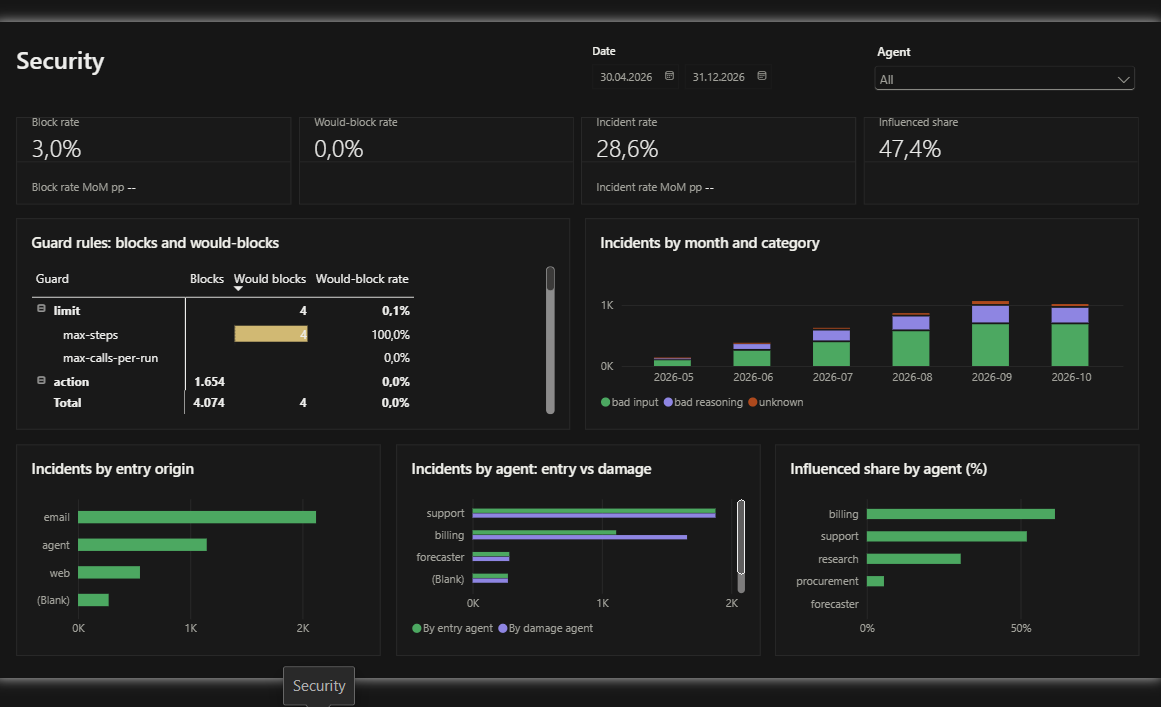
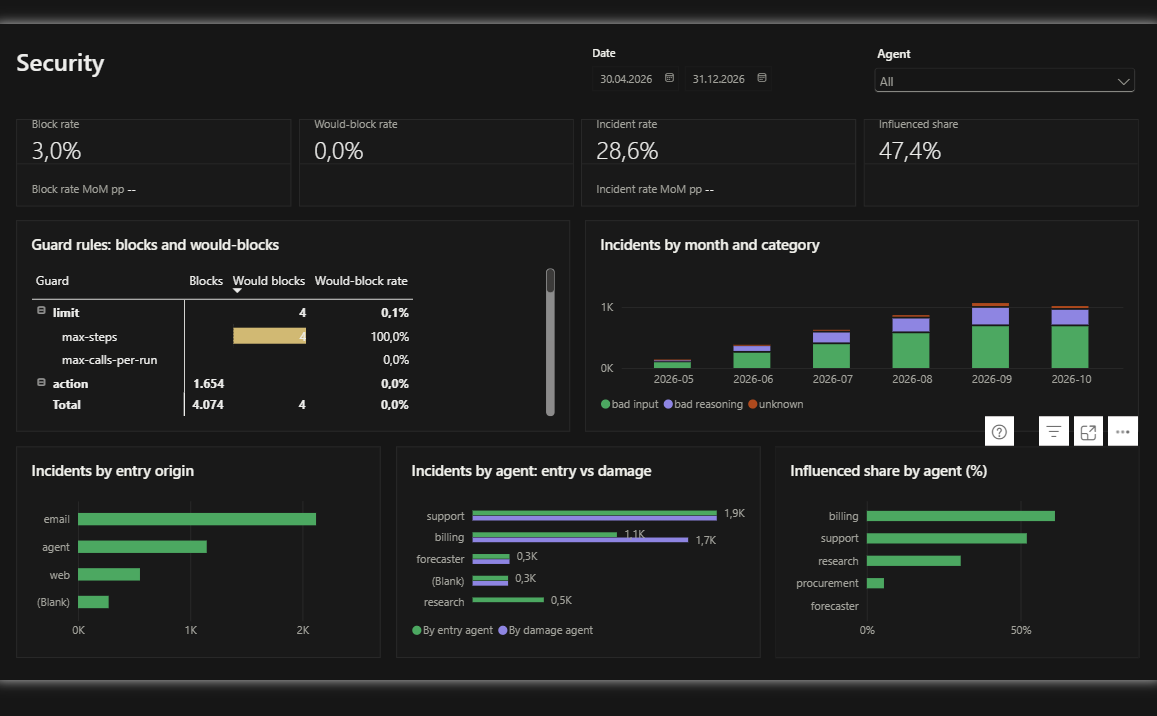
docs(bi): tick the last story criteria and update the Security screenshot

diff --git a/bi/kpis.md b/bi/kpis.md
@@ -63,7 +63,7 @@ As a security lead, I want block and would-block counts per guard rule, so that 
 - **Page:** Security. **KPIs:** K07, K08, with Blocks and Would blocks.
 - [x] A table has one row per guard rule, with Blocks, Would blocks and Would-block rate as columns.
 - [x] It is sorted by Would blocks, highest first.
-- [ ] The date and agent filters change it.
+- [x] The date and agent filters change it.
 - [x] With no filter, its Blocks total equals Blocks in the "Totals" DAX query.
 
 ### SEC-2. Where attacks come in
@@ -93,7 +93,7 @@ As an engineering manager, I want agents ranked by model cost, with cost per run
 - [x] One bar per agent shows Cost per run, labeled with its Agent cost rank.
 - [x] Rank 1 is the agent with the highest Model cost in the current filter; equal costs share a rank.
 - [x] Each agent's tooltip shows its Failure rate and Avg steps per run, the usual reasons a run costs more.
-- [ ] The date and agent filters change both the values and the ranks.
+- [x] The date and agent filters change both the values and the ranks.
 
 ### ENG-2. Unreliable models
 
@@ -136,7 +136,7 @@ As finance, I want to know how much cost is unknown, so that I know how complete
 
 - **Page:** Finance. **KPIs:** K16.
 - [x] A card shows Cost coverage as a percent of runs.
-- [ ] The date and agent filters change it.
+- [x] The date and agent filters change it.
 - [x] A tooltip says that runs with an unpriced model call still count in Run count, but their unpriced calls add nothing to Model cost.
 
 ### OPS-1. Failing data checks
